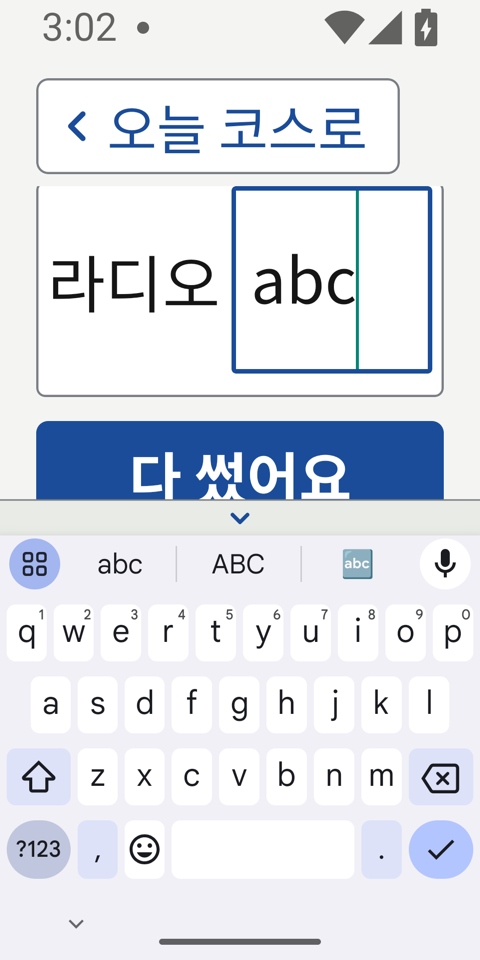
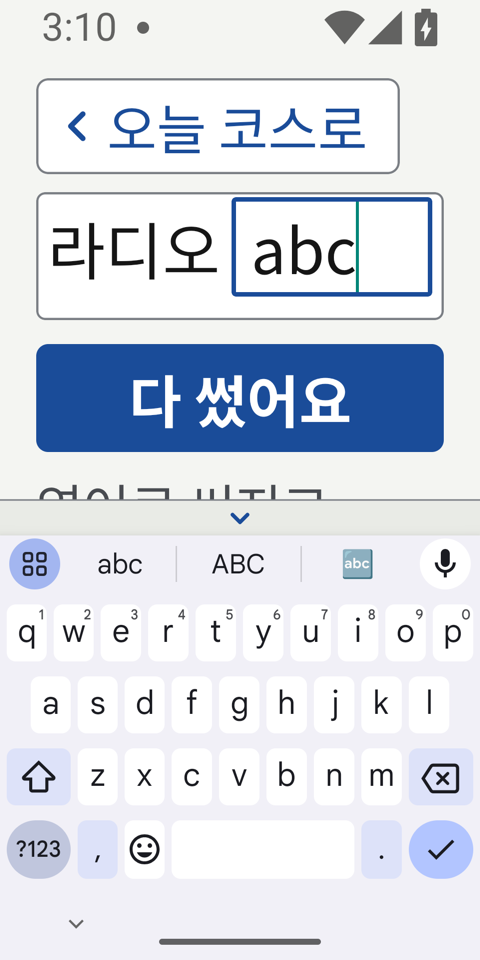
fix(p6): #192 디자인 리뷰 — 입력 칸 글꼴 여백 제거로 200% 자판 열림에서 카드·버튼 통째로, R-12·R-15 예외 한 줄

Changed region(s): [[0.0625, 0.1875, 0.9375, 0.5312], [0.1562, 0.0, 0.25, 0.0625], [0.0625, 0.1875, 0.0938, 0.2188]]

diff --git a/app/src/features/course/KeyboardStep.tsx b/app/src/features/course/KeyboardStep.tsx
@@ -42,7 +42,7 @@ type Phase = 'writing' | 'sheet' | 'matched';
 // 어르신이 친 글자는 저장하지 않으므로 보여 주지 않는다(정책).
 // 입력 칸 글자: fieldInput 역할에서 줄높이만 뺀다. Android TextInput 은 줄높이를 글자 배율로 늘리지 않아(글자 34×1.5=51 > 줄높이 44)
 // 글자 위쪽이 잘렸다(에뮬레이터 320·360 × 200% 실측, 11-20). 높이는 minHeight·세로 가운데로 맞춘다
-const inputText = {...roleText('fieldInput', 'elder').style, lineHeight: undefined, textAlignVertical: 'center' as const};
+const inputText = {...roleText('fieldInput', 'elder').style, lineHeight: undefined, textAlignVertical: 'center' as const, includeFontPadding: false};
 
 export function KeyboardStep({navigation, route}: NativeStackScreenProps<ParentParams, 'KeyboardStep'>) {
   const review = !!route.params?.review;

diff --git a/app/__tests__/p6KeyboardOpen.test.tsx b/app/__tests__/p6KeyboardOpen.test.tsx
@@ -90,6 +90,7 @@ test('입력한 글자 위쪽이 잘리지 않는다 — 입력 칸은 줄높이
   const st = StyleSheet.flatten(input.props.style);
   expect(st.lineHeight).toBeUndefined();
   expect(st.textAlignVertical).toBe('center');
+  expect(st.includeFontPadding).toBe(false); // 글꼴 여백을 빼야 200% 자판 열림에서 카드·버튼이 통째로 들어온다(#192 디자인 리뷰 M1, 실측)
   expect(st.fontSize).toBeGreaterThan(0);
 });
 

diff --git a/design-system/RULES-V4.md b/design-system/RULES-V4.md
@@ -18,10 +18,10 @@
 | R-09 | 높이는 minHeight만(어르신 주 72·보조 64·링크 64·간격 12, 자녀 56/48). 글자 상자에 height·maxHeight 숫자 금지 | lint: height·maxHeight 숫자 + 토큰(role minHeight 존재) | DS 레인 |
 | R-10 | 말줄임 금지(numberOfLines·ellipsize). 예외 3곳(낱말 칸·브랜드 버튼·번호 칸)은 ui/ 안에서 주석과 테스트로 | lint: `numberOfLines`·`ellipsizeMode` + 렌더: 예외 3곳 | DS 레인 |
 | R-11 | 확대 상한은 역할 토큰에서만(본문 2.0, 큰 제목·Dock·번호 1.5). 화면이 `maxFontSizeMultiplier`를 고르지 못한다. **배율과 상관없이 적용**(200%에서도 입력 카드는 잘리지 않고, 넘치는 것은 본문 스크롤로 닿는다). **Field 입력 글자(`typeRoles.fieldInput`)의 상한은 1.5로 항상 고정**(자판 열림 여부·화면과 무관, 화면별로 값을 정하지 않는다) | lint: `maxFontSizeMultiplier` 금지 + 렌더: fontScale 2.0 주입 | DS 레인 |
-| R-12 | Dock 슬롯은 주 1 + 보조 0~1 + 한 줄 note. 약관은 본문 끝. 넘치면 note → 보조 순으로 본문 끝, 최후에 '더 있음' 표시 + 테스트 실패. **단서(SocialGroup)**: 로그인 화면은 주 슬롯 안에 `SocialGroup`(카카오 → 구글 → Apple(iOS만), 최대 3개, 같은 높이·폭·반경)을 둔다. 그룹이 들어가도 Dock ≤ 40%이고, 넘치면 보조 링크가 본문으로 간다(`dock.socialGroup`). 간격: 주 버튼과 링크 24 이상, 요소 사이 8 이상. **예외(자판 열림, 11-19 결정)**: 자판이 열려 보이는 창이 작아지면 Dock 40%는 **자판을 뺀 보이는 창** 기준으로 계산하고, 글자 200%에서 주 버튼 하나만으로 40%를 넘으면(예: C0-b 210 > 152) **Dock을 풀고 주 버튼을 입력 카드 바로 아래 본문**에 둔다(카드·버튼은 통째로 보이고 위 영역은 접힘 유지). 넘길 슬롯이 없을 때만 쓰며, 자판이 닫히면 다시 Dock으로 돌아간다 | 타입(슬롯 수) + 렌더: fontScale 2.0에서 Dock ≤ 40% | DS 레인 |
+| R-12 | Dock 슬롯은 주 1 + 보조 0~1 + 한 줄 note. 약관은 본문 끝. 넘치면 note → 보조 순으로 본문 끝, 최후에 '더 있음' 표시 + 테스트 실패. **단서(SocialGroup)**: 로그인 화면은 주 슬롯 안에 `SocialGroup`(카카오 → 구글 → Apple(iOS만), 최대 3개, 같은 높이·폭·반경)을 둔다. 그룹이 들어가도 Dock ≤ 40%이고, 넘치면 보조 링크가 본문으로 간다(`dock.socialGroup`). 간격: 주 버튼과 링크 24 이상, 요소 사이 8 이상. **예외(자판 열림, 11-19 결정)**: 자판이 열려 보이는 창이 작아지면 Dock 40%는 **자판을 뺀 보이는 창** 기준으로 계산하고, 글자 200%에서 주 버튼 하나만으로 40%를 넘으면(예: C0-b 210 > 152) **Dock을 풀고 주 버튼을 입력 카드 바로 아래 본문**에 둔다(카드·버튼은 통째로 보이고 위 영역은 접힘 유지). 넘길 슬롯이 없을 때만 쓰며, 자판이 닫히면 다시 Dock으로 돌아간다 | 타입(슬롯 수) + 렌더: fontScale 2.0에서 Dock ≤ 40% | DS 레인 **예외(11-20, 리드 b — P6)**: 글자 200%에서 자판이 열리면 주 버튼 '다 썼어요'도 Dock 을 풀고 입력 카드 바로 아래 본문에 둔다. 자판이 닫히면 Dock 으로 돌아온다 |
 | R-13 | placeholder 금지. 안내는 Field의 label·hint | lint: `placeholder` 금지 + 타입(Field에 prop 없음) | DS 레인 |
 | R-14 | BackLink 하나(화살표 28/24·글자 24/18·알약 card + line 1.5, 64×120/56), 목적지 문구, 보이는 글 = TalkBack 라벨, 배율로 숨기지 않음 | 렌더: a11y 라벨 일치·배율 2.0에서 존재 | DS 레인 |
-| R-15 | 자판이 열리면 form·step 틀은 위 영역을 BackLink 한 줄로 접고, 입력 카드는 통째로 보이거나 숨긴다. **배율과 상관없이 적용**: 320·200%에서 자판이 열려도 입력 카드(칸 전체)가 잘리면 안 된다. 방법은 위 영역 접기, Dock의 보조·주 버튼을 본문으로 보내기, 안내문·링크는 스크롤로 닿기. **모든 배율에서 접힘 경계는 줄/요소 경계**(스크롤 영역이 끝나는 곳에서 글줄·버튼·키 줄이 반쯤 잘려 보이면 안 된다. 걸치는 요소는 간격으로 통째로 아래로 밀고 '더 있음' 띠를 둔다) | 캡처(Maestro 자판 열림 assertVisible) + 사람 | 화면 레인 |
+| R-15 | 자판이 열리면 form·step 틀은 위 영역을 BackLink 한 줄로 접고, 입력 카드는 통째로 보이거나 숨긴다. **배율과 상관없이 적용**: 320·200%에서 자판이 열려도 입력 카드(칸 전체)가 잘리면 안 된다. 방법은 위 영역 접기, Dock의 보조·주 버튼을 본문으로 보내기, 안내문·링크는 스크롤로 닿기. **모든 배율에서 접힘 경계는 줄/요소 경계**(스크롤 영역이 끝나는 곳에서 글줄·버튼·키 줄이 반쯤 잘려 보이면 안 된다. 걸치는 요소는 간격으로 통째로 아래로 밀고 '더 있음' 띠를 둔다) | 캡처(Maestro 자판 열림 assertVisible) + 사람 | 화면 레인 **P6 200% 자판 열림(11-20)**: Dock 을 풀고 버튼을 카드 아래로 보내 카드·버튼이 통째로 들어온다(R-12 예외). 시안 P6_P7_N1_P2_ds4b 의 200% 자판 열림 보드는 이 상태로 갱신 대상 |
 | R-16 | 화면은 틀 6종(step·list·form·done·state·intro) 중 하나를 고르고 한 화면 한 목적 | 타입(Screen variant) + 사람 | 화면 레인 |
 | R-17 | 400/700 두 단계만(500은 S25 실측 뒤). 어르신 본문 20(22는 어르신 확인 뒤). **단서**: 소셜 버튼(카카오·구글·Apple) 글자 500은 브랜드 가이드 예외로 700 역할 집계에 넣지 않는다. 한 화면 700은 2역할까지(제목·버튼)이며 약관 링크는 400 + 밑줄 | 토큰(typeRoles weight 집합) | DS 레인 |
 | R-18 | 어르신 글자 20 미만·손글씨 30 미만, 자녀 16 미만 금지 | 토큰(typeRoles 최소) | DS 레인 |

diff --git a/docs/team/qa/evidence/2026-11-20-p6/README.md b/docs/team/qa/evidence/2026-11-20-p6/README.md
@@ -10,5 +10,5 @@
 | `320-200-typed-before.png` | 수정 전, 320×640, 'abc' 입력 | 칸 안 글자 위쪽 절반이 잘림 |
 | `360-200-typed-before.png` | 수정 전, 360×640, 'abc' 입력 | 같은 잘림 |
 | `360-200-typed-lineheight-only.png` | 줄높이만 뺐을 때, 360×640, 'abc' | 칸 안 글자 잘림은 없어졌지만 칸이 커져 카드가 보이는 창(약 75dp)을 넘어 '더 있음' 띠에 가림 |
-| `360-200-typed-after.png`·`360-200-open-after-dump.txt` | 최종(줄높이 뺌 + 리드 결정 b: 200% 자판 열림 Dock 해제), 360×640 | 카드(라디오 + 칸) 전체가 보이고 글자 잘림 없음. '다 썼어요'는 카드 바로 아래 본문(띠 아래로 이어짐, 스크롤 또는 자판 '완료' 키) |
-| `320-200-typed-after.png` | 최종, 320×640 | 같다. 카드 위 테두리가 BackLink 줄 아래로 조금 밀림 |
+| `360-200-typed-after.png`·`360-200-open-after-dump.txt` | 최종(줄높이 뺌 + 리드 결정 b: 200% 자판 열림 Dock 해제), 360×640 | 카드(라디오 + 칸) 전체와 '다 썼어요' 버튼이 통째로 들어옴, 글자 잘림 없음(글꼴 여백 제거 includeFontPadding:false 뒤, 디자인 리뷰 M1) |
+| `320-200-typed-after.png` | 최종, 320×640 | 같다. 카드·버튼 통째로, 카드 위 테두리 밀림 없음. 버튼 아래 로마자 안내 첫 줄이 경계에 걸림(낮음) |
